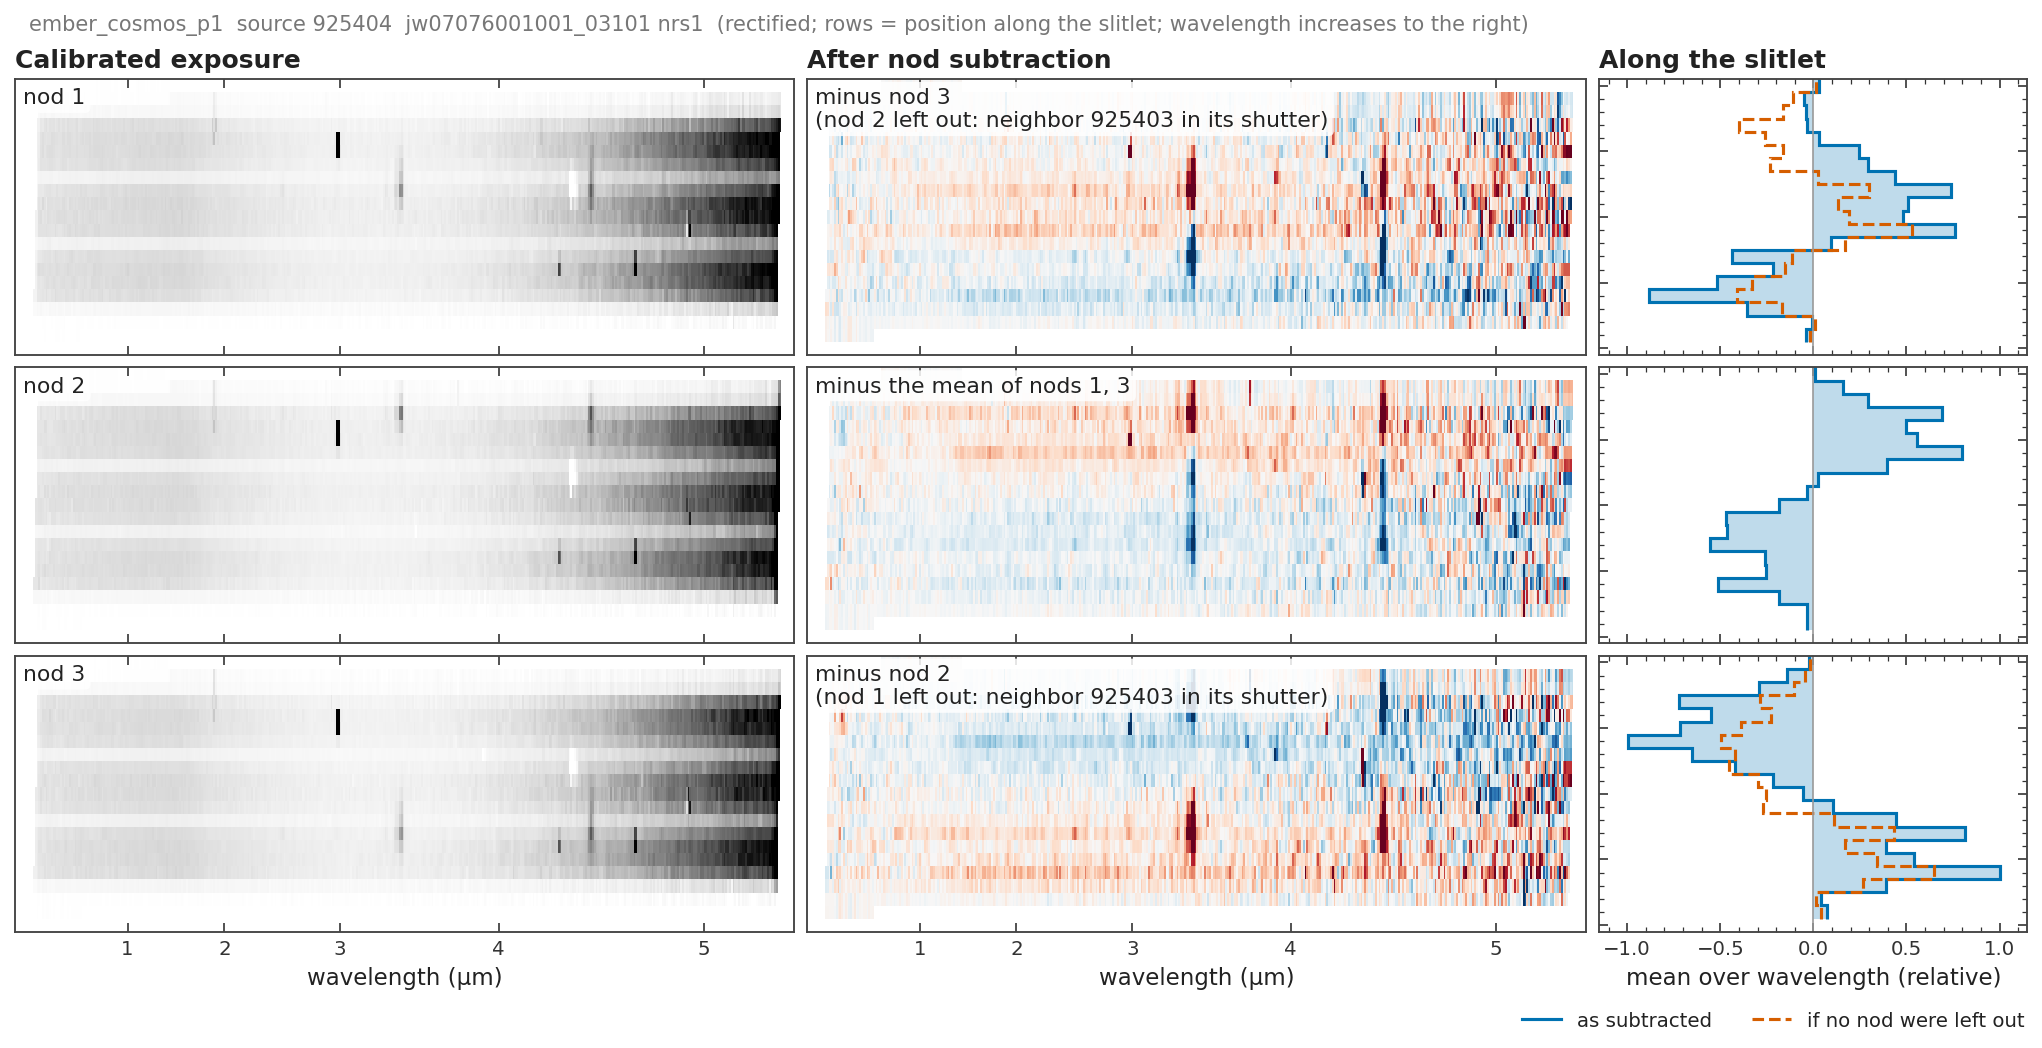
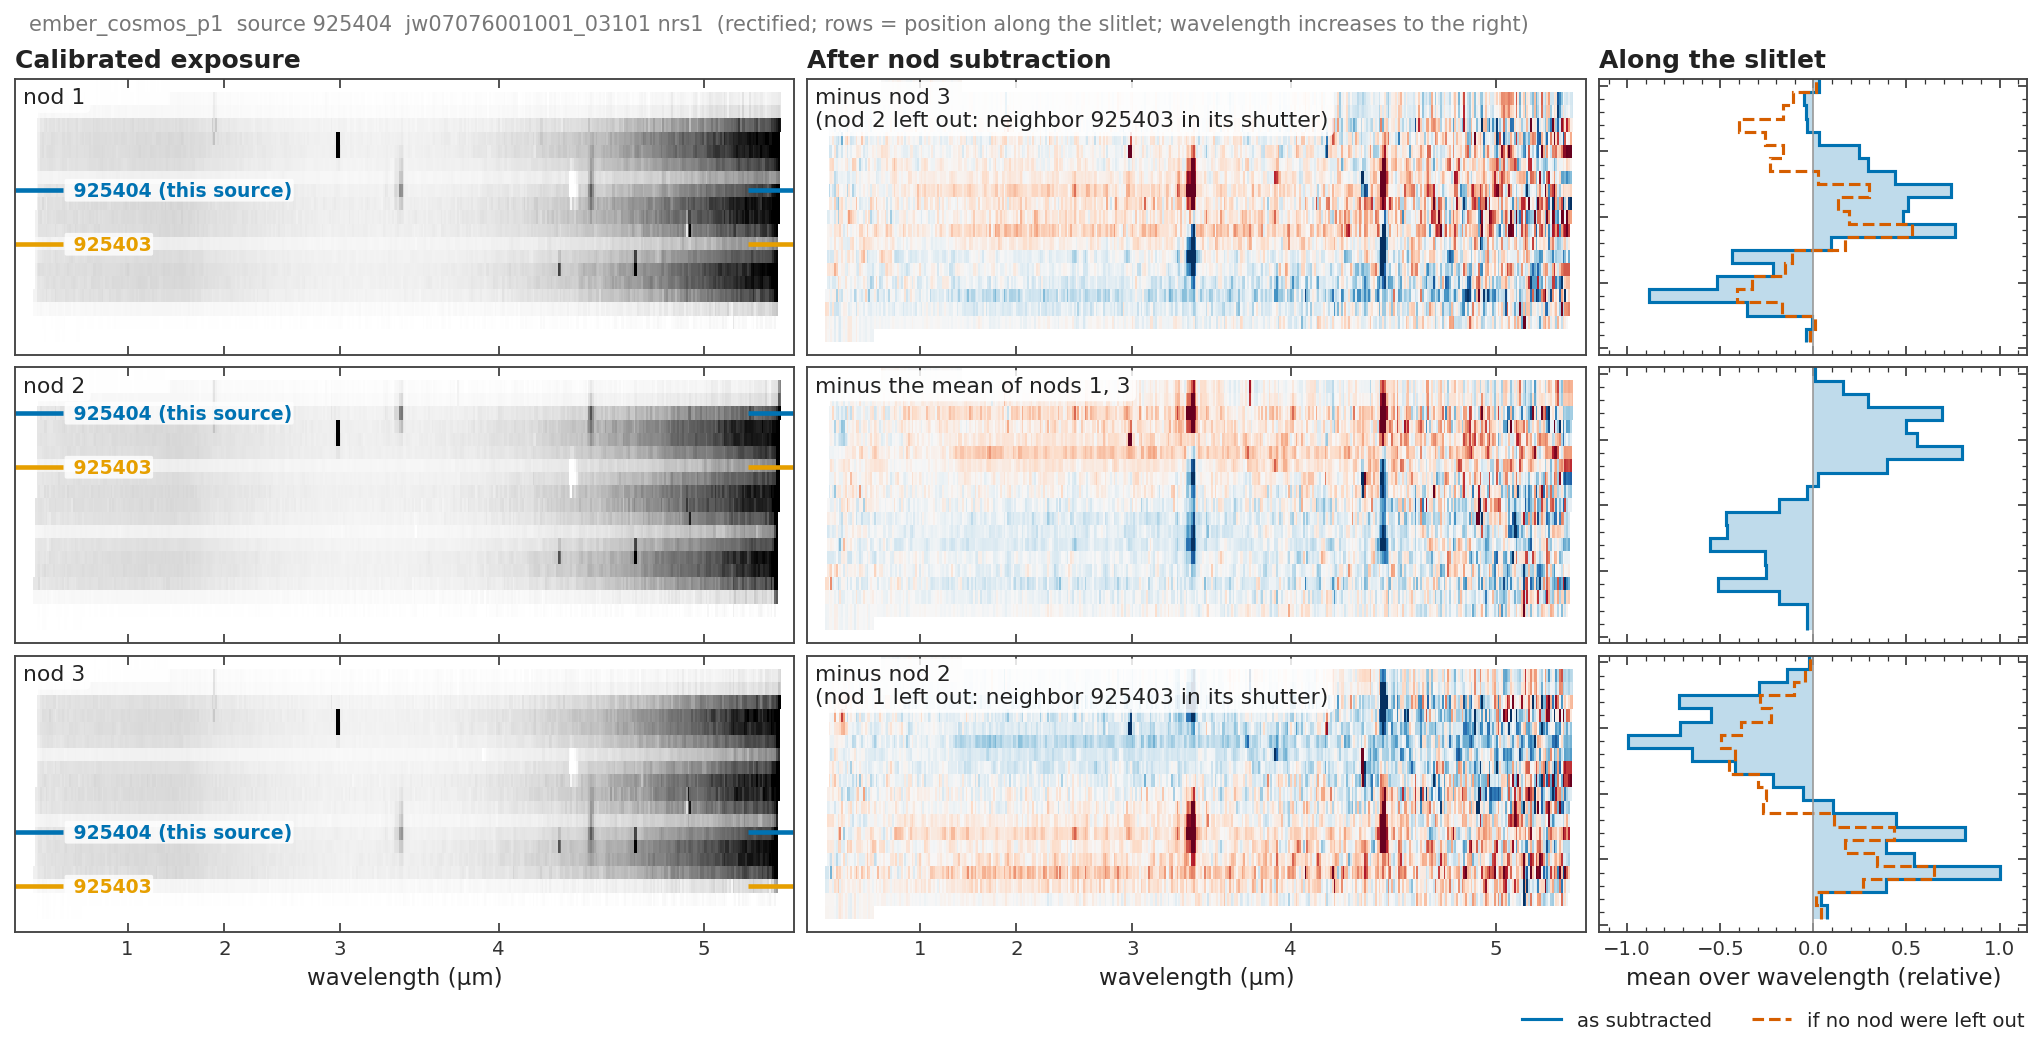
docs: nod-left-out figure marks the source and its neighbor along the slitlet in each nod
Claude-Session: https://claude.ai/code/session_019a5zAo87B6jUK2ZMiF6xjZ

Changed region(s): [[0.0, 0.3664, 0.1234, 0.458], [0.0, 0.1527, 0.1234, 0.2443], [0.0, 0.7634, 0.1234, 0.855]]

diff --git a/scripts/docs/nirspec/fig_nod_subtraction.py b/scripts/docs/nirspec/fig_nod_subtraction.py
@@ -21,6 +21,8 @@ p.add_argument('--bin', type=int, default=1,
                help='wavelength pixels averaged per displayed column, for faint sources (1: none)')
 p.add_argument('--grating-tag', default='prism_clear',
                help="the source's spec.fits grating tag, for the wavelength axis (e.g. 'g395m_f290lp')")
+p.add_argument('--mark', action='store_true',
+               help='mark the source and the neighbors that caused a nod to be left out on the calibrated frames')
 args = p.parse_args()
 root = C.setup_root(args.root)
 
@@ -47,17 +49,59 @@ def binned(img, n):
     return np.nanmean(img[:, :m].reshape(img.shape[0], -1, n), axis=2)
 
 
+def source_rows(canonical, radec):
+    """Row of each (ra, dec) along the slitlet in the canonical's rectified frame. The
+    rectified frames do not store their coordinates, so the exposure is rectified again in
+    memory with the same jwst step stage 2a uses (nothing is written); each row's sky
+    position at the central column defines a line, and each source is projected onto it."""
+    import logging
+    for name in ('stpipe', 'jwst', 'stcal', 'CRDS'):
+        logging.getLogger(name).setLevel(logging.WARNING)
+    from jwst.datamodels import MultiSlitModel
+    from jwst.resample import ResampleSpecStep
+    cwd = os.getcwd()
+    os.chdir(os.path.dirname(canonical))
+    try:
+        with MultiSlitModel(os.path.basename(canonical)) as m:
+            s = ResampleSpecStep().call(m).slits[0]
+            ny, nx = s.data.shape
+            ra, dec, _ = s.meta.wcs(np.full(ny, nx // 2), np.arange(ny))
+    finally:
+        os.chdir(cwd)
+    cosd = np.cos(np.radians(np.nanmedian(dec)))
+    e, n = (ra - ra[0]) * cosd * 3600, (dec - dec[0]) * 3600
+    step = np.hypot(np.diff(e), np.diff(n)).mean()
+    ux, uy = (e[-1] - e[0]) / np.hypot(e[-1] - e[0], n[-1] - n[0]), (n[-1] - n[0]) / np.hypot(e[-1] - e[0], n[-1] - n[0])
+    return [((r0 - ra[0]) * cosd * 3600 * ux + (d0 - dec[0]) * 3600 * uy) / step for r0, d0 in radec]
+
+
 frames = []
 for f in files:
     with fits.open(f) as h:
         hd = h[0].header
         before = np.asarray(h['S2D_SCI'].data, float)
         frames.append(dict(nod=int(hd.get('PATT_NUM', 0)), before_full=before, before=binned(before, args.bin),
+                           path=f, metafile=str(hd.get('MSAMETFL', '')),
                            after_full=np.asarray(h['S2D_BKGSUB_SCI'].data, float),
                            why=str(hd.get('BKGWHY', '') or ''), used=str(hd.get('BKGNODS', '') or ''),
                            override=bool(hd.get('BKGOVR', False))))
     frames[-1]['after'] = binned(frames[-1]['after_full'], args.bin)
 frames.sort(key=lambda d: d['nod'])
+
+# the sources to mark: this one, and every neighbor a nod was left out for
+marks = {}
+if args.mark:
+    import re
+    from astropy.table import Table
+    ids = [args.source] + sorted({int(m) for fr in frames for m in re.findall(r'neighbor (\d+)', fr['why'])})
+    src = Table.read(os.path.join(ws, frames[0]['metafile']), hdu='SOURCE_INFO')
+    radec = []
+    for s in ids:
+        row = src[np.asarray(src['source_id']) == s]
+        radec.append((float(row['ra'][0]), float(row['dec'][0])) if len(row) else (np.nan, np.nan))
+    for fr in frames:
+        fr['marks'] = dict(zip(ids, source_rows(fr['path'], radec)))
+    marks = {s: C.PALETTE[k % len(C.PALETTE)] for k, s in enumerate(ids)}
 
 # wavelength of each rectified column: the rectified frames do not store it, but the
 # source's combined spectrum is rectified onto the same column grid by the same jwst step
@@ -96,6 +140,17 @@ for r, fr in enumerate(frames):
     ax = axes[r, 0]
     ax.imshow(fr['before'], cmap='Greys', norm=C.asinh_norm(fr['before']), aspect='auto')
     C.label_panel(ax, f'nod {fr["nod"]}')
+    nxd = fr['before'].shape[1]
+    for s, color in marks.items():
+        y = fr['marks'].get(s, np.nan)
+        if not np.isfinite(y) or not (-0.5 <= y <= fr['before'].shape[0] - 0.5):
+            continue
+        for xa, xb in ((-0.5, 0.06 * nxd), (0.94 * nxd, nxd - 0.5)):     # ticks at both edges, data left clear
+            ax.plot([xa, xb], [y, y], color=color, lw=2.2, solid_capstyle='butt')
+        ax.text(0.065 * nxd, y, f' {s}' + (' (this source)' if s == args.source else ''), color=color,
+                fontsize=9, va='center', ha='left', fontweight='bold',
+                bbox=dict(boxstyle='round,pad=0.1', fc='white', ec='none', alpha=0.8))
+    ax.set_xlim(-0.5, nxd - 0.5)
     ax = axes[r, 1]
     ax.imshow(fr['after'], cmap='RdBu_r', vmin=-va, vmax=va, aspect='auto')
     used = fr['used'] if fr['override'] else ', '.join(str(o['nod']) for o in others)
